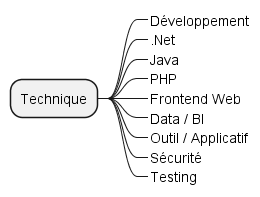
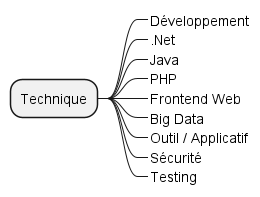
change big data domain

Changed region(s): [[0.5846, 0.5787, 0.8, 0.6701]]

diff --git a/README.md b/README.md
@@ -25,7 +25,7 @@ Le profil est le premier niveau hiérarchique. Il détermine la facette métier 
 
 - **Management** : lié aux métiers de gestion comme peuvent l'être les chefs de projets, chefs d'équipes, scrum master, etc.
 - **Technique** : lié aux métiers techniques et aux connaissances des frameworks, applicatifs, outils, etc.
-- **Organisation** : cette catégorie existe de manière à pouvoir identifier les compétences liées à l'organisation liée à une société, cliente ou pas.
+- **Organisation** : cette catégorie existe de manière à pouvoir identifier les compétences liées à l'organisation d'une société, cliente ou pas.
 
 Les profils peuvent être cumulés entre eux.
 
